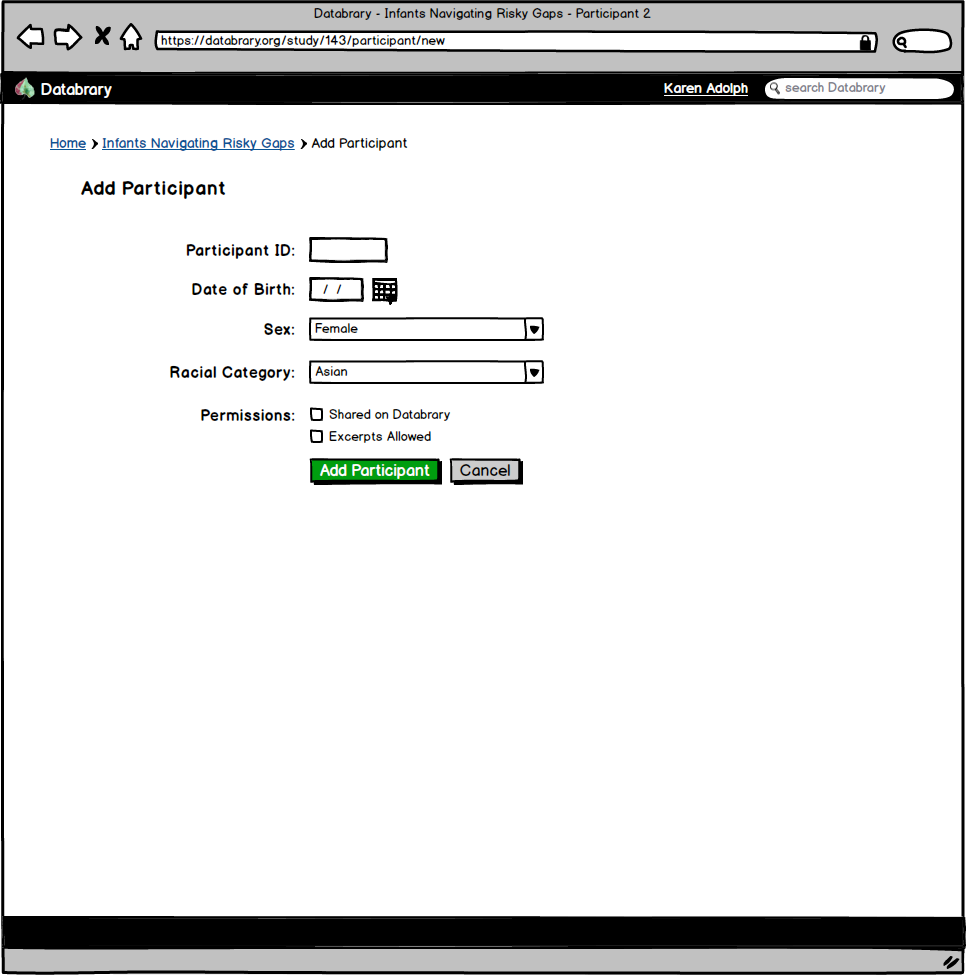
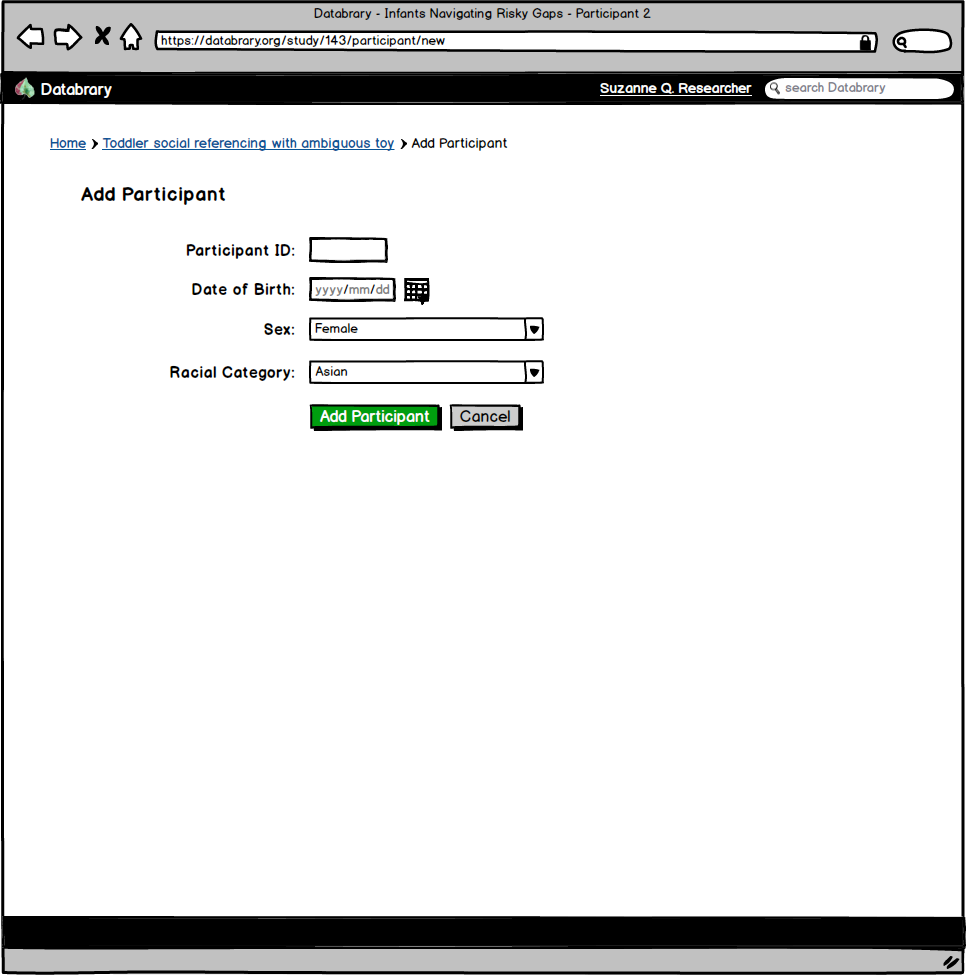
updated new participant page: removed permissions

diff --git a/wireframe-presentation.md b/wireframe-presentation.md
@@ -188,7 +188,7 @@ UPDATED: Blank participant page
   - just replace everything on current participant page with text fields/drop downs/edit buttons
 - [image: add participant](./study-participant-new.png)
 - racial categories from NIH: http://grants.nih.gov/grants/guide/notice-files/not-od-01-053.html
-- [ ] remove permissions from this page (really on files)
+- [x] remove permissions from this page (really on files)
 
 CREATED : Upload page
 
